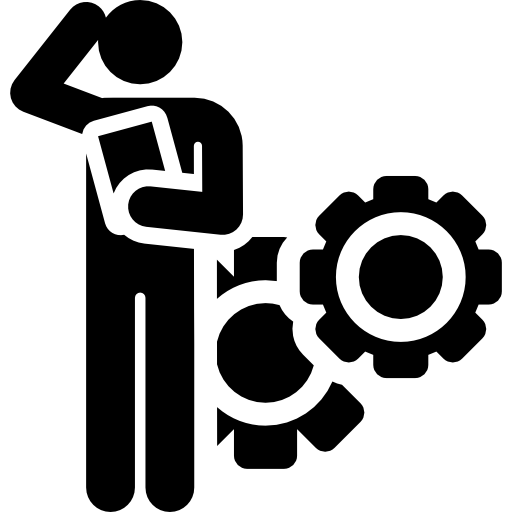
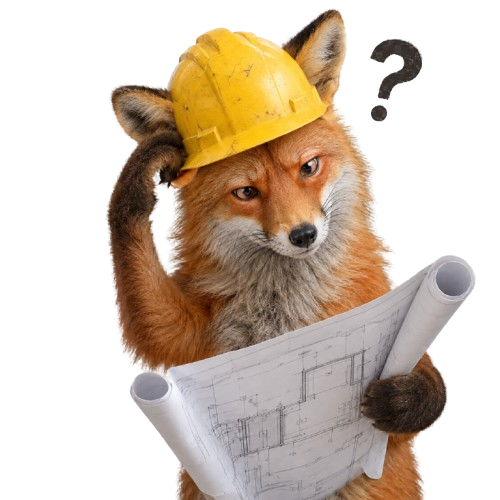
puede que version final

diff --git a/img1.html b/img1.html
@@ -20,16 +20,20 @@
         
         <h4>
             <ol>
-                <li>entrar a la URL de la pagina. (https://revelacion-rouge.vercel.app)</li>
-                <li>elegir tu Rol (Alumno o Docente/personal)</li>
-                <li>Ingresar tu numero de control <h5>(Lo puedes encontrar en tu Credencial, Boleta de calificaciones o pedirla en control Escolar.)</h5></li>
-                <li>Espera a que el temporizador llegue a 00:00:00:00</li>
-                <li>Da click en el Sello rojo del Sobre</li>
+                <li>entrar a la URL de la pagina.<br>(<a href="https://revelacion-rouge.vercel.app" target="_blank">revelacion-rouge.vercel.app</a>)<br><br></li>
+                <li>elegir tu Rol<br>(Alumno o Docente/personal)<br><br></li>
+                <li>Ingresar tu numero de control <br>(Lo puedes encontrar en tu Credencial, Boleta de calificaciones, pedirselo al tutor de tu grupo o pedirla en control Escolar.)<br><br></li>
+                <li>Espera a que el temporizador llegue a 00:00:00:00<br>(es decir, el Lunes 19 a las 11:00 AM)<br><br></li>
+                <li>Da click en el Sello rojo del Sobre<br><br></li>
                 <li>¡Mira tu fraternidad asignada segun tus respuestas!</li>
             </ol>
         </h4>
+        <center><img src="imagenes/elementos.png" width="500px" height="200px"></center>
+        <br>
         </section>
-        <a href="index.html" target="_top"><button>Volver</button></a>
+        <div style="text-align: right;">
+            <a href="https://previoexamen2fihm.vercel.app/" target="_top"><button>Volver</button></a>
+        </div>
     </main>
 
     <footer>

diff --git a/css/estilos.css b/css/estilos.css
@@ -69,7 +69,7 @@ button:hover {
 body.pagina-frame {
     margin: 0;
     padding: 0;
-    background: #f2efff;
+    background: #2700d48c;
 }
 .marco {
     display: flex;
@@ -106,4 +106,34 @@ body.pagina-frame {
     height: 100%;
     border: 1px solid #ccc;
     background: white;
+}
+
+
+/* Ajustes para celulares */
+@media screen and (max-width: 768px) {
+
+    body {
+        padding: 10px;
+    }
+
+    img {
+        max-width: 100%;
+        height: auto;
+    }
+
+    header {
+        padding: 10px;
+    }
+
+    nav {
+        display: flex;
+        flex-wrap: wrap;
+        gap: 10px;
+    }
+
+    main, section, article {
+        max-width: 100%;
+        box-sizing: border-box;
+    }
+
 }

diff --git a/img2.html b/img2.html
@@ -26,9 +26,14 @@
             <li><h3>Al poner mi numero de control no sale mi nombre</h3></li>
             <p>Verifica que lo hayas puesto de manera correcta, si te equivocas en un solo numero puede mostrar el de otro alumno y no el tuyo.</p>
         </ul>
-
+        <div style="text-align: right;">
+            <img src="imagenes/problema.png" width="250px">
+        </div>
         </section>
-        <a href="index.html" target="_top"><button>Volver</button></a>
+
+        <div style="text-align: right;">
+            <a href="https://previoexamen2fihm.vercel.app/" target="_top"><button>Volver</button></a>
+        </div>
     </main>
 
     <footer>

diff --git a/contenido.html b/contenido.html
@@ -16,6 +16,8 @@
             <h2>Bienvenido</h2>
             <p>En el menú de la izquierda puedes consultar la guía de acceso y los posibles problemas.</p>
         </center>
+        <center><img src="imagenes/elementos.png" width="500px" height="200px"></center>
+
     </main>
     <footer><center><p>Fierro Huezo Manuel - 5F - Programación</p></center></footer>
 </body>

diff --git a/index.html b/index.html
@@ -1,7 +1,9 @@
 <!DOCTYPE html>
 <html lang="es">
 <head>
-    <meta charset="UTF-8">
+    
+<meta name="viewport" content="width=device-width, initial-scale=1.0">
+
     <title>Revelación de Fraternidad</title>
     <link rel="stylesheet" href="css/estilos.css">
 </head>
